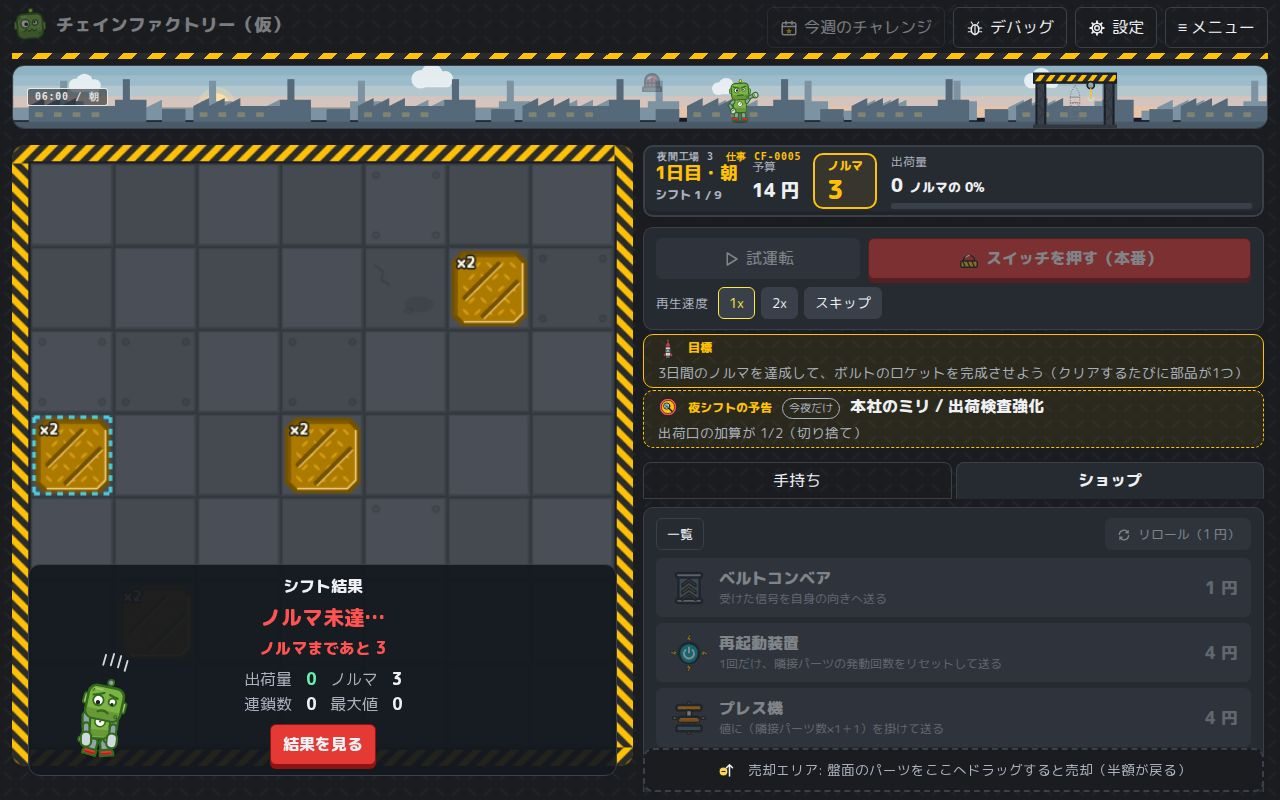
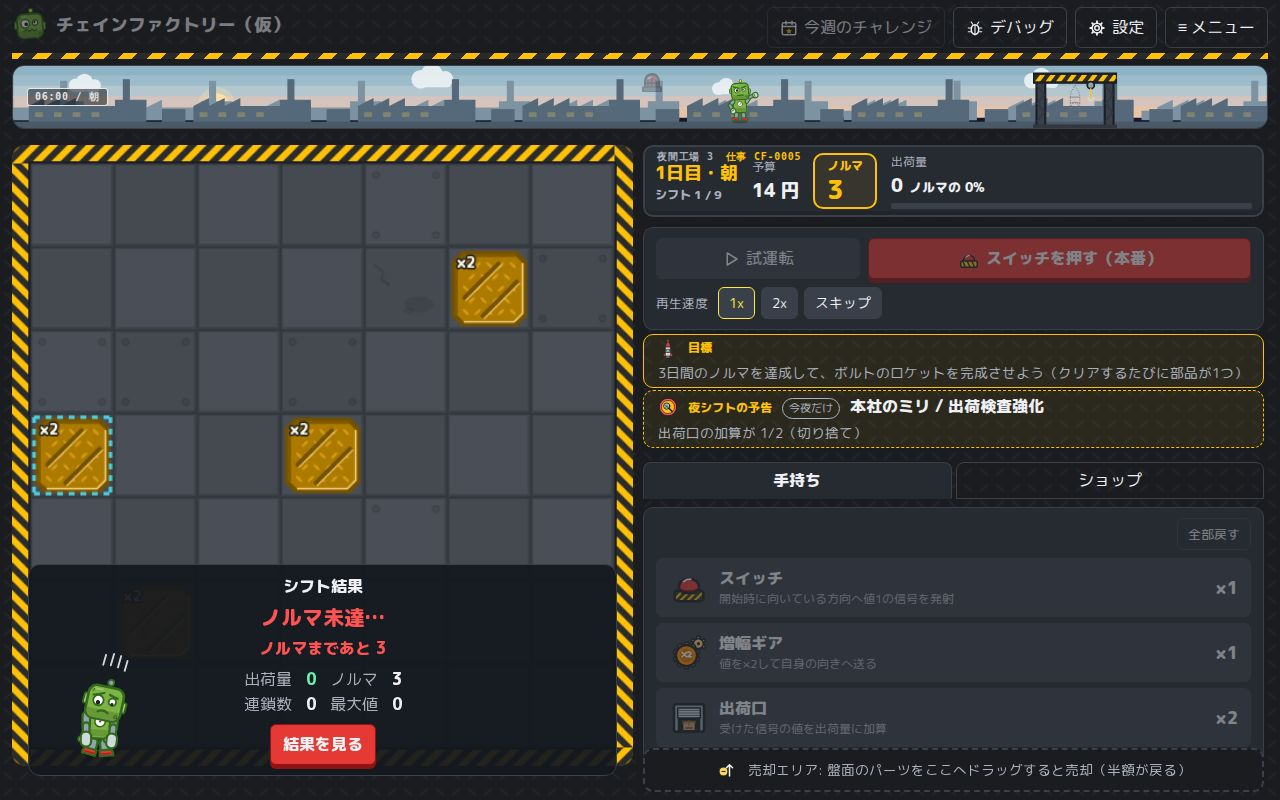
操作の手間を減らす: 試運転の結果を操作で閉じる・選択中のパーツを1行に・最初のタブ・ガイドとの食い違い
- 試運転の結果を見終わった後は、盤面を押す・パーツを選ぶ・もう一度試運転などの操作で結果のパネルを閉じてそのまま続ける（本番の結果は今までどおり明示的に閉じる）
- 手持ち・ショップをタブで切り替える画面では、選択中のパーツの操作を1行に詰め、下の一覧を画面の外へ押し出さない
- シフトの始めは、手持ちにパーツがあれば手持ちのタブを開く
- 初回ガイドが出ている間は、操作欄の1行の案内を出さない（ガイドの指示と食い違わないように）
- UI レビューの画面を撮り直す

Claude-Session: https://claude.ai/code/session_0114RMmfSAyXuJ1DmH6Wx86W

diff --git a/apps/client/src/App.tsx b/apps/client/src/App.tsx
@@ -56,6 +56,7 @@ import {
   canUndo,
   createGameState,
   gameReducer,
+  isTrialResultOpen,
   getPersistedRun,
   type PlayMode,
 } from './state/gameReducer';
@@ -147,7 +148,6 @@ export function App({ start, onTitle }: Props) {
   /** ショップ・手持ちをタブで切り替えるか（狭い画面・高さの低い画面） */
   const tabbed = compact || short;
   /** 狭い画面で表示中のタブ */
-  const [tab, setTab] = useState<'shop' | 'inventory'>('shop');
   const [speed, setSpeed] = useState<PlaybackSpeed>(1);
   /** 再生中の出荷量の途中経過 */
   const [liveScore, setLiveScore] = useState<string | null>(null);
@@ -164,8 +164,19 @@ export function App({ start, onTitle }: Props) {
 
   const { settings, updateSettings } = useSettings();
   const { run, selection, playback, error, mode } = state;
+  // タブ表示の一覧: シフトの始めは、手持ちにパーツがあれば手持ち（まず置く）、なければショップ（まず買う）
+  const firstTab = (r: RunState): 'shop' | 'inventory' =>
+    Object.values(r.inventory).some((count) => (count ?? 0) > 0) ? 'inventory' : 'shop';
+  const [tab, setTab] = useState<'shop' | 'inventory'>(() => firstTab(run));
+  const [tabShift, setTabShift] = useState(`${run.seed}:${run.shiftIndex}`);
+  if (tabShift !== `${run.seed}:${run.shiftIndex}`) {
+    setTabShift(`${run.seed}:${run.shiftIndex}`);
+    setTab(firstTab(run));
+  }
   const previousShift = useRef(run.shiftIndex);
-  const playing = playback !== null || state.awaitingServer;
+  // 試運転の結果を見終わったところは「再生中」として扱わない（組み立ての操作をすると結果のパネルが閉じる）
+  const trialResultOpen = isTrialResultOpen(state);
+  const playing = (playback !== null && !trialResultOpen) || state.awaitingServer;
 
   // 初回ガイド（ガイド用のランの1シフト目。進み方は state/tutorial.ts）。ランを始め直したら最初から
   const [tutorial, setTutorial] = useState<TutorialState>(() => startTutorial(run));
@@ -589,6 +600,7 @@ export function App({ start, onTitle }: Props) {
       run={run}
       selection={selection}
       hideWhenEmpty={tabbed}
+      compact={tabbed}
       disabled={playing}
       onRotate={() => dispatch({ type: 'rotate' })}
       onReturn={() => dispatch({ type: 'returnSelected' })}
@@ -599,7 +611,8 @@ export function App({ start, onTitle }: Props) {
   // シフトの情報・目的の案内（初回ガイド）・夜シフトの予告。
   // 横長の画面では盤面をできるだけ大きくするため、盤面の上ではなく右の列の先頭に置く
   const trial = trialStatus(state.trials, run);
-  const hud = <Hud run={run} liveScore={liveScore} trial={trial} />;
+  // 結果のパネルを閉じたら、出荷量の途中経過ではなく直近の試運転の結果を出す（操作で閉じた場合も含む）
+  const hud = <Hud run={run} liveScore={playback ? liveScore : null} trial={trial} />;
   const notices = (
     <>
       {tutorialOn ? (
@@ -753,7 +766,8 @@ export function App({ start, onTitle }: Props) {
             compact={compact}
             inputMode={inputMode}
             speed={speed}
-            next={nextStep(run, selection, trial, getCurrentShift(run).quota)}
+            // 初回ガイドが出ている間は、ガイドの指示と食い違わないよう1行の案内を出さない
+            next={tutorialOn ? null : nextStep(run, selection, trial, getCurrentShift(run).quota)}
             canUndo={canUndo(state)}
             onUndo={() => dispatch({ type: 'undo' })}
             onTrial={() => startPlayback('startTrial')}

diff --git a/apps/client/src/ui/SelectionPanel.tsx b/apps/client/src/ui/SelectionPanel.tsx
@@ -16,6 +16,11 @@ interface Props {
   selection: Selection;
   /** 何も選んでいないときはパネルごと出さない（狭い画面で場所を空けるため） */
   hideWhenEmpty?: boolean;
+  /**
+   * 1行に詰めて出す（手持ち・ショップをタブで切り替える画面。下の一覧を画面の外へ押し出さないように）。
+   * 効果の説明はマウスを載せると出る
+   */
+  compact?: boolean;
   disabled: boolean;
   onRotate: () => void;
   onReturn: () => void;
@@ -26,6 +31,7 @@ export function SelectionPanel({
   run,
   selection,
   hideWhenEmpty = false,
+  compact = false,
   disabled,
   onRotate,
   onReturn,
@@ -47,6 +53,49 @@ export function SelectionPanel({
   const refund = getRefund(run, part.id);
   const sellable = run.config.economy.prices[part.id] > 0;
 
+  const description = describePart(t, part.id, getCurrentRules(run));
+
+  if (compact) {
+    return (
+      <section className="panel selection--compact" aria-label={t('selection.title')}>
+        <div className="selection__part" title={description}>
+          <PartIcon partId={part.id} size={32} />
+          <span className="selection__name">
+            {t(`part.${part.id}.name`)}（{t(`dir.${part.dir}`)}）
+          </span>
+        </div>
+        <div className="selection__actions">
+          <button
+            className="button--small"
+            disabled={disabled}
+            onClick={onRotate}
+            title={t('selection.rotate')}
+          >
+            <UiIcon name="rotate" size={16} />
+            {t('selection.rotateShort')}
+          </button>
+          <button
+            className="button--small"
+            disabled={disabled}
+            onClick={onReturn}
+            title={t('selection.returnToInventory')}
+          >
+            <UiIcon name="return" size={16} />
+            {t('selection.returnShort')}
+          </button>
+          <button
+            className="button--small button--ghost"
+            disabled={disabled || !sellable}
+            onClick={onSell}
+          >
+            {sellable && <UiIcon name="sell" size={16} />}
+            {sellable ? t('selection.sellShort', { refund }) : t('selection.cannotSell')}
+          </button>
+        </div>
+      </section>
+    );
+  }
+
   return (
     <section className="panel">
       <h2 className="panel__title">{t('selection.title')}</h2>
@@ -56,7 +105,7 @@ export function SelectionPanel({
           <div className="selection__name">
             {t(`part.${part.id}.name`)}（{t(`dir.${part.dir}`)}）
           </div>
-          <div className="panel__hint">{describePart(t, part.id, getCurrentRules(run))}</div>
+          <div className="panel__hint">{description}</div>
         </div>
       </div>
       <div className="button-row">

diff --git a/apps/client/test/gameReducer.test.ts b/apps/client/test/gameReducer.test.ts
@@ -5,6 +5,7 @@ import {
   createGameState,
   gameReducer,
   getPersistedRun,
+  isTrialResultOpen,
   type GameAction,
   type GameState,
 } from '../src/state/gameReducer';
@@ -36,6 +37,36 @@ describe('画面の状態遷移', () => {
     const before = state;
     state = apply(state, { type: 'selectInventory', partId: 'dock' });
     expect(state).toBe(before);
+  });
+
+  it('試運転の結果を見終わった後は、組み立ての操作で結果のパネルを閉じてそのまま続ける（本番の結果は閉じない）', () => {
+    let state = apply(
+      createGameState(createRun(1), createInitialMeta()),
+      { type: 'startTrial' },
+      { type: 'playbackFinished' },
+    );
+    expect(isTrialResultOpen(state)).toBe(true);
+    state = apply(state, { type: 'selectInventory', partId: 'dock' });
+    expect(state.playback).toBeNull();
+    expect(state.selection).toMatchObject({ kind: 'inventory', partId: 'dock' });
+    // もう一度試運転を押すと、閉じてそのまま次の試運転
+    state = apply(
+      state,
+      { type: 'startTrial' },
+      { type: 'playbackFinished' },
+      { type: 'startTrial' },
+    );
+    expect(state.playback?.mode).toBe('trial');
+    expect(state.run.trialCount).toBe(3);
+    // 本番の結果は、組み立ての操作では閉じない
+    let commit = apply(
+      createGameState(createRun(1), createInitialMeta()),
+      { type: 'startCommit' },
+      { type: 'playbackFinished' },
+    );
+    expect(isTrialResultOpen(commit)).toBe(false);
+    commit = apply(commit, { type: 'selectInventory', partId: 'dock' });
+    expect(commit.playback?.mode).toBe('commit');
   });
 
   it('本番の再生中は確定後のランを保存対象にし、閉じると反映される', () => {

diff --git a/apps/client/src/state/gameReducer.ts b/apps/client/src/state/gameReducer.ts
@@ -283,13 +283,25 @@ export function gameReducer(state: GameState, action: GameAction): GameState {
 }
 
 /** 元に戻せる操作があるか */
+/** 試運転の再生が終わり、結果のパネルを出しているところ（組み立ての操作で閉じられる） */
+export function isTrialResultOpen(state: GameState): boolean {
+  return state.playback?.mode === 'trial' && state.playback.finished && !state.awaitingServer;
+}
+
 export function canUndo(state: GameState): boolean {
-  return state.undo.length > 0 && !state.playback && !state.awaitingServer;
+  return (
+    state.undo.length > 0 && (!state.playback || isTrialResultOpen(state)) && !state.awaitingServer
+  );
 }
 
 function reduce(state: GameState, action: GameAction): GameState {
   // 演出の再生中・サーバーの応答待ちは、再生・応答に関する操作以外を受け付けない
   const busyAllowed = ['playbackFinished', 'closePlayback', 'loadRun', 'weeklyRanked'];
+  // 試運転の結果を見終わった後は、組み立ての操作（盤面を押す・パーツを選ぶ・もう一度試運転など）で
+  // 結果のパネルを閉じて、そのまま操作を続ける（試運転を繰り返すたびに「配置に戻る」を押さなくてよい）
+  if (isTrialResultOpen(state) && !busyAllowed.includes(action.type)) {
+    state = { ...state, playback: null };
+  }
   if (state.playback && !busyAllowed.includes(action.type)) return state;
   if (
     state.awaitingServer &&

diff --git a/apps/client/src/styles.css b/apps/client/src/styles.css
@@ -2908,3 +2908,27 @@ a.button.button--primary {
   font-size: 1.1rem;
   line-height: 1;
 }
+
+/* 選択中のパーツ（1行）: 手持ち・ショップの一覧を画面の外へ押し出さない */
+.selection--compact {
+  display: flex;
+  align-items: center;
+  gap: 8px;
+  padding: 6px 10px;
+}
+.selection--compact .selection__part {
+  align-items: center;
+  flex: 1;
+  min-width: 0;
+  margin: 0;
+}
+.selection--compact .selection__name {
+  overflow: hidden;
+  text-overflow: ellipsis;
+  white-space: nowrap;
+}
+.selection__actions {
+  display: flex;
+  gap: 4px;
+  flex: none;
+}

diff --git a/docs/ui-review/after/report.md b/docs/ui-review/after/report.md
@@ -1,6 +1,6 @@
 # UI の確認（after）
 
-撮影: 2026-10-07T16:12:19.973Z・http://localhost:5173/
+撮影: 2026-10-07T23:10:53.828Z・http://localhost:5173/
 
 | 画面サイズ | 言語 | 状態 | 横スクロール | ヘッダーのはみ出し | 画像 |
 |---|---|---|---|---|---|
